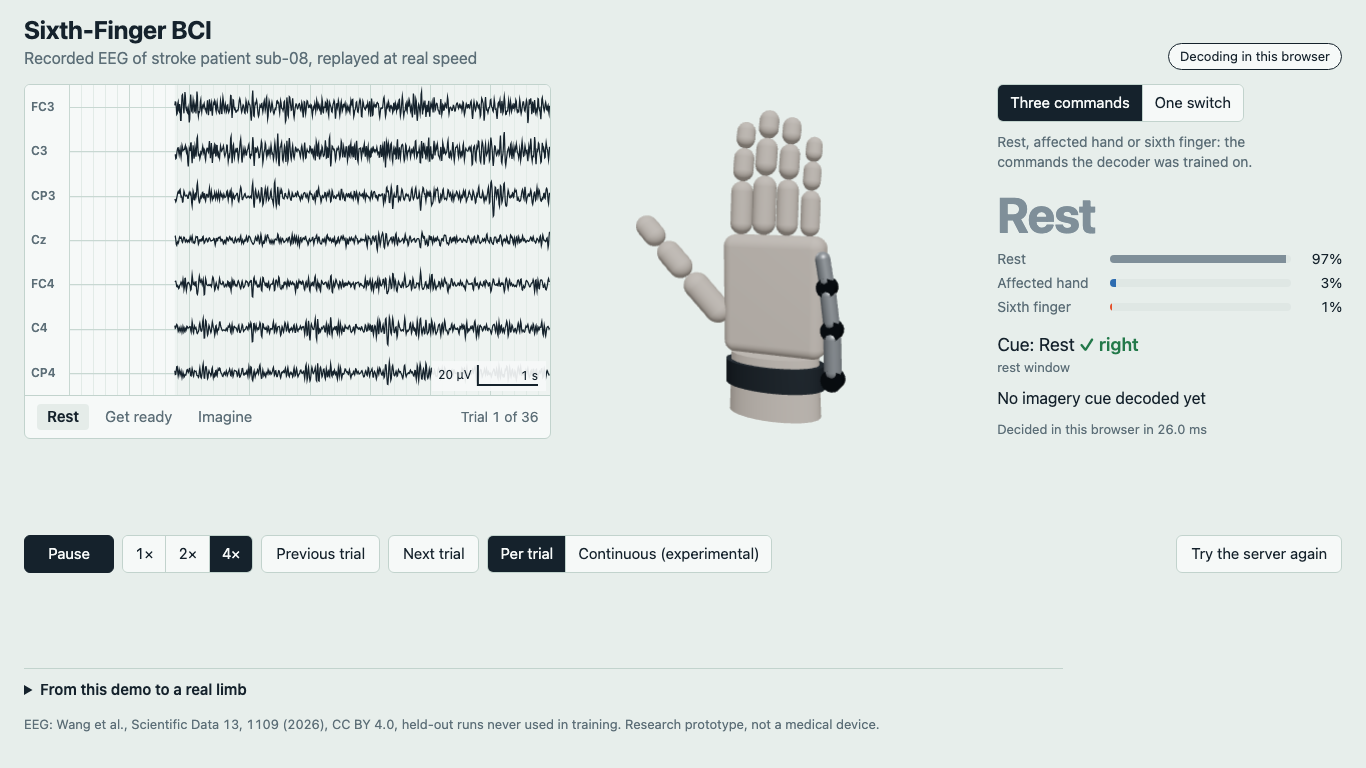
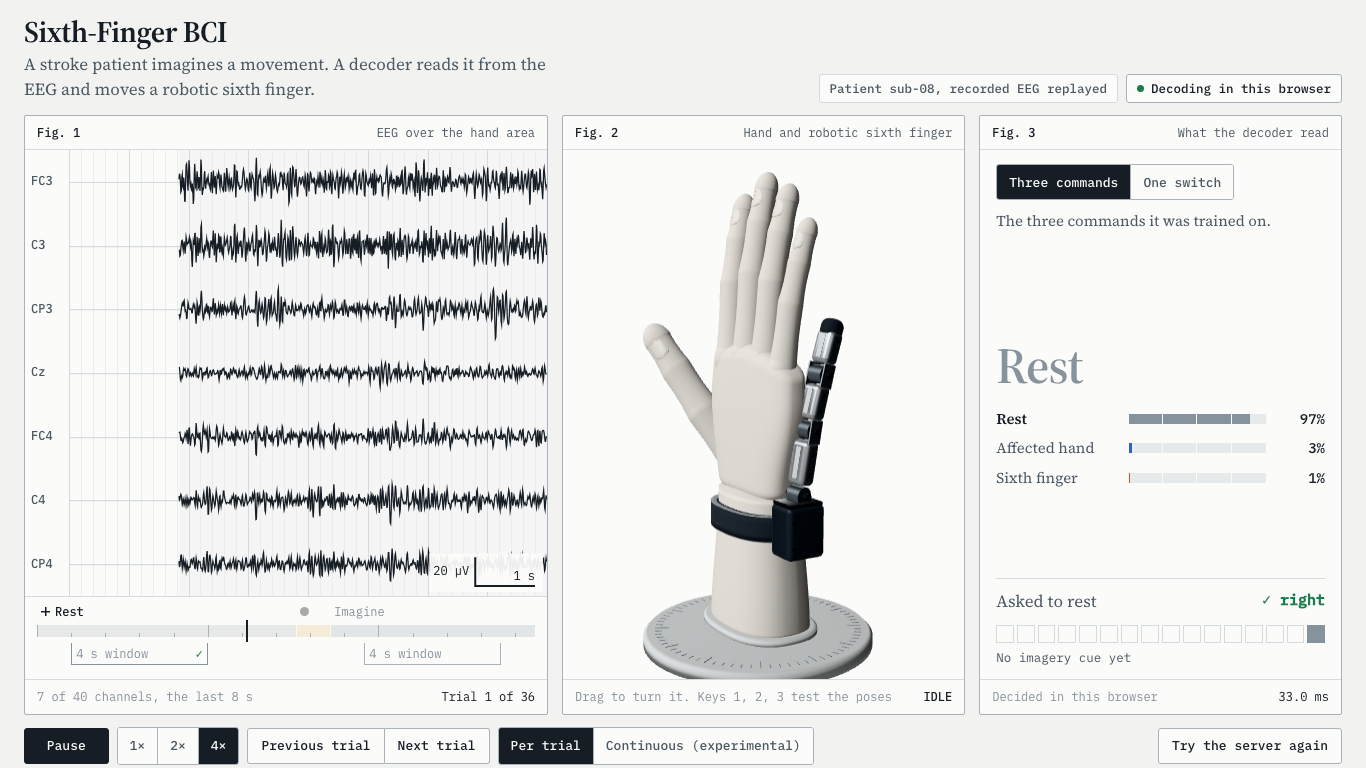
Screenshots of the redesigned demo and the hand in its three poses

diff --git a/web/e2e/poses.spec.ts b/web/e2e/poses.spec.ts
@@ -1,0 +1,22 @@
+import { expect, test } from "@playwright/test";
+
+// The hand in each command's pose, for the report (scripts/make_hand_poses_figure.py
+// puts the three side by side in docs/figures/hand_poses.png).
+const POSES = [
+  { key: "1", command: "IDLE" },
+  { key: "2", command: "HAND_GRASP" },
+  { key: "3", command: "SIXTH_FINGER_FLEX" },
+];
+
+test("the hand takes each command's pose", async ({ page }) => {
+  await page.setViewportSize({ width: 1366, height: 768 });
+  await page.goto("/?server=http://127.0.0.1:9");
+  await expect(page.getByTestId("mode-badge")).toHaveAttribute("data-source", "browser", { timeout: 15_000 });
+  await expect(page.locator("[data-testid=hand] canvas")).toBeVisible({ timeout: 10_000 });
+  for (const { key, command } of POSES) {
+    await page.keyboard.press(key);
+    await expect(page.getByTestId("hand")).toHaveAttribute("data-command", command);
+    await page.waitForTimeout(900); // the springs settle in about 0.5 s
+    await page.getByTestId("hand").screenshot({ path: `test-results/hand-${command}.png` });
+  }
+});

diff --git a/scripts/make_hand_poses_figure.py b/scripts/make_hand_poses_figure.py
@@ -1,0 +1,38 @@
+"""The 3D hand in its three poses, side by side (docs/figures/hand_poses.png).
+
+(cd web && npx playwright test e2e/poses.spec.ts)
+uv run python scripts/make_hand_poses_figure.py
+"""
+
+from __future__ import annotations
+
+import matplotlib
+
+matplotlib.use("Agg")
+import matplotlib.pyplot as plt
+
+from sixthfinger.paths import get_paths
+
+POSES = [
+    ("IDLE", "Rest"),
+    ("HAND_GRASP", "Affected hand"),
+    ("SIXTH_FINGER_FLEX", "Sixth finger"),
+]
+
+
+def main() -> None:
+    root = get_paths().root
+    fig, axes = plt.subplots(1, 3, figsize=(10.5, 4.2))
+    for ax, (command, label) in zip(axes, POSES, strict=True):
+        image = plt.imread(root / "web" / "test-results" / f"hand-{command}.png")
+        ax.imshow(image[4:-4, 4:-4])  # without the plate's hairline at the edges
+        ax.set_title(f"{label}\n{command}", fontsize=10, family="monospace")
+        ax.axis("off")
+    fig.tight_layout()
+    out = root / "docs" / "figures" / "hand_poses.png"
+    fig.savefig(out, dpi=200, facecolor="white")
+    print(f"wrote {out.relative_to(root)}")
+
+
+if __name__ == "__main__":
+    main()
